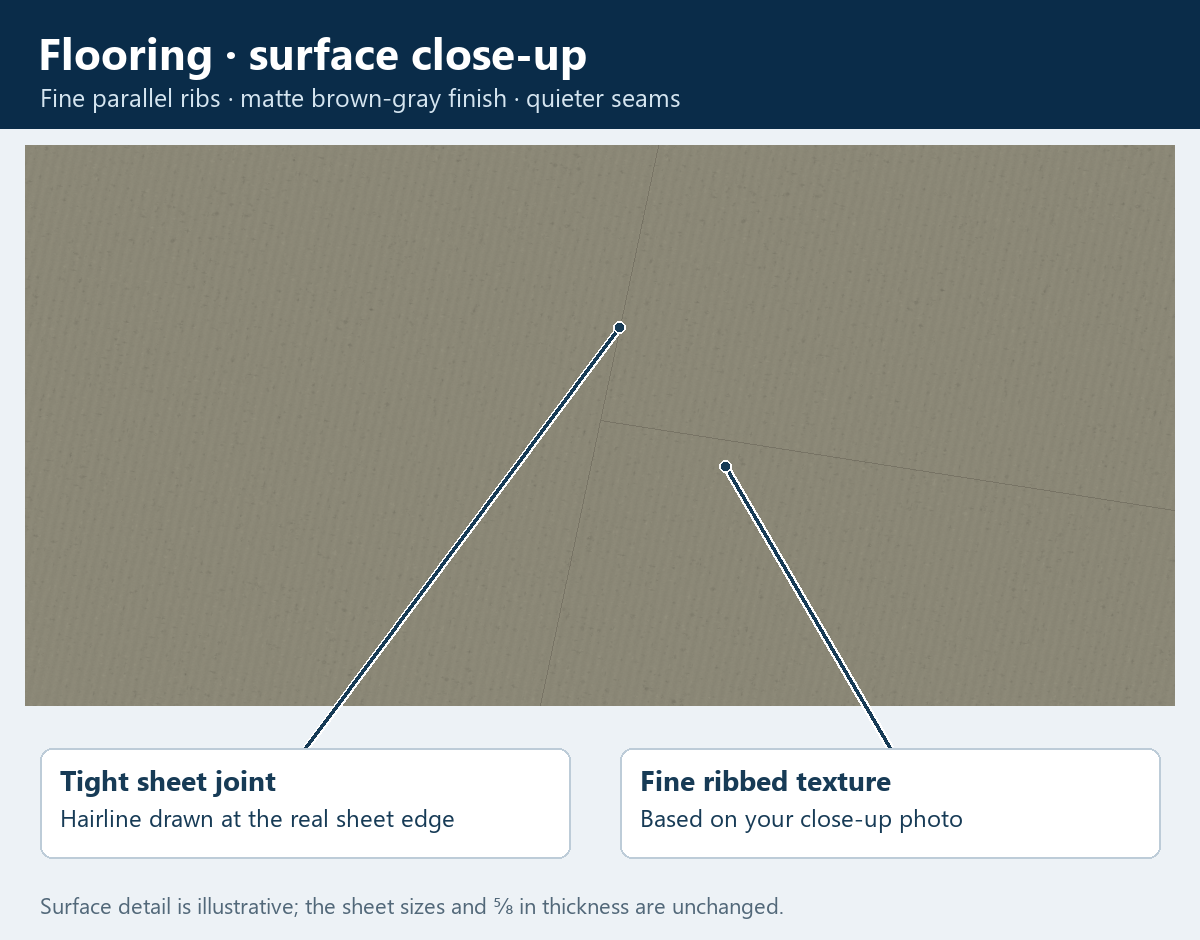
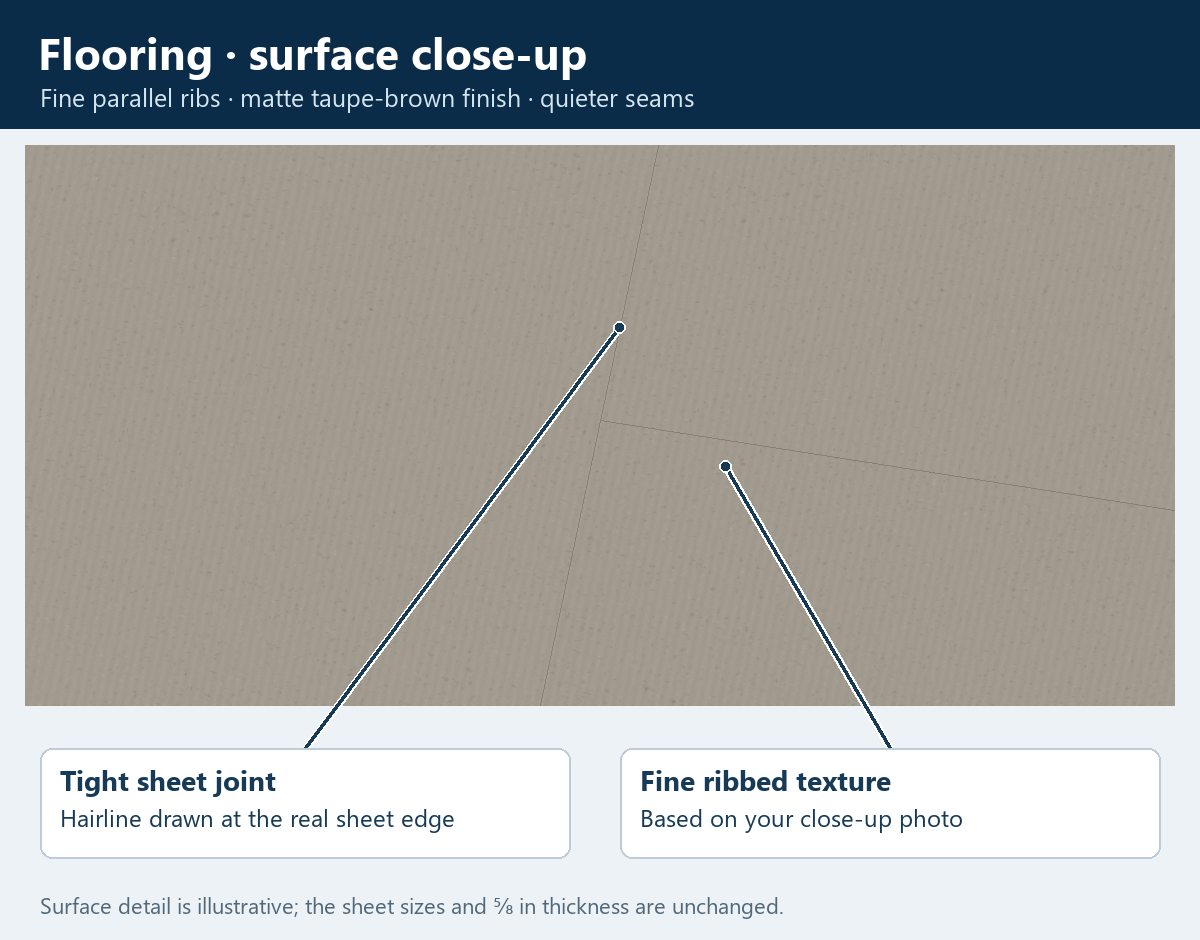
Match flooring color to the latest photo reference

Changed region(s): [[0.2467, 0.0926, 0.5858, 0.1234], [0.185, 0.6479, 0.2158, 0.6787]]

diff --git a/flooring.html b/flooring.html
@@ -30,17 +30,17 @@
     <p>The <strong>4 × 8-foot tongue-and-groove sheets</strong> are <strong>⅝ inch thick</strong> and rest on top of the floor joists. Their 8-foot length runs along the 16-foot building.</p>
     <p><strong>Staggered</strong> means the sheet end seams move over in the next row. The second row runs <strong>4 feet + 8 feet + 4 feet</strong>, as you confirmed. Across the 10-foot floor, two 4-foot rows leave <strong>2 feet</strong> for the last row, so those pieces are trimmed narrower.</p>
     <nav aria-label="Lesson views">
-      <a href="learn.html?step=deck&amp;v=flooring-texture-2">Rotate the 3D model</a>
+      <a href="learn.html?step=deck&amp;v=flooring-color-3">Rotate the 3D model</a>
       <a href="joists.html">See the framing underneath</a>
     </nav>
     <figure>
-      <a href="images/flooring.png"><img src="images/flooring.png" width="1200" height="940" alt="Angled model of seven flooring pieces with a muted brown-gray ribbed finish and faint seam lines. Overall dimensions are 10 by 16 feet, thickness is five eighths of an inch, and labels identify each row and the two-foot-wide trimmed last row."></a>
+      <a href="images/flooring.png"><img src="images/flooring.png" width="1200" height="940" alt="Angled model of seven flooring pieces with a muted taupe-brown ribbed finish and faint seam lines. Overall dimensions are 10 by 16 feet, thickness is five eighths of an inch, and labels identify each row and the two-foot-wide trimmed last row."></a>
       <figcaption>Tap the picture to open it full size. In the rotating model, uncheck Flooring to see the joists again.</figcaption>
     </figure>
     <h2>The flooring texture up close</h2>
     <figure>
-      <a href="images/flooring-closeup.png"><img src="images/flooring-closeup.png" width="1200" height="940" alt="Close-up of the model's matte brown-gray flooring with fine parallel ribs, tiny surface variations and faint joints between the sheets."></a>
-      <figcaption>The finish follows your close-up reference: fine ribbing and a quiet matte surface. Tap to inspect the texture full size.</figcaption>
+      <a href="images/flooring-closeup.png"><img src="images/flooring-closeup.png" width="1200" height="940" alt="Close-up of the model's matte taupe-brown flooring with fine parallel ribs, tiny surface variations and faint joints between the sheets."></a>
+      <figcaption>The finish follows your close-up for the fine ribbing and your later color photo for the warm taupe-brown tone. Tap to inspect the texture full size.</figcaption>
     </figure>
     <h2>How the seams stagger</h2>
     <figure>

diff --git a/ui/learn-flooring.js b/ui/learn-flooring.js
@@ -1,12 +1,14 @@
 /* An illustrative surface for the floor lesson, based on Alan's close-up:
-   matte brown-gray/olive, fine parallel ribs and tiny flecks. This does not
+   matte warm taupe-brown, fine parallel ribs and tiny flecks. This does not
    identify the product or specify its rib/profile dimensions. No photo asset,
    sheet geometry, normal or construction stage is changed. */
 import { hexRGB, srgbLin } from "../engine/math.js";
 import { mulberry32 } from "../engine/seeded.js";
 
 const PREFIX = "lessonFlooring-", VARIANTS = 4, EPSILON = 1e-7;
-const TINT = hexRGB("#8c8979").map(srgbLin);
+// Approximate display tint from Alan's later color-reference photo, allowing
+// for the neutral texture/lighting. This is not a manufacturer color code.
+const TINT = hexRGB("#a39c91").map(srgbLin);
 
 function sheetHash(value) {
   let hash = 2166136261;

diff --git a/tools/render-joist-picture.py b/tools/render-joist-picture.py
@@ -194,7 +194,7 @@ def render_flooring():
 
     im,project=scene([-1,b['y1Ft'],-4],1.65,yaw=.18,pitch=1.04)
     seam_lines(im,project);d=ImageDraw.Draw(im)
-    title(d,'Flooring · surface close-up','Fine parallel ribs · matte brown-gray finish · quieter seams')
+    title(d,'Flooring · surface close-up','Fine parallel ribs · matte taupe-brown finish · quieter seams')
     leader(d,project([-.78,b['y1Ft'],-3.95]),(620,748,540,110),'Fine ribbed texture',['Based on your close-up photo'])
     leader(d,project([-1,b['y1Ft'],-4.18]),(40,748,530,110),'Tight sheet joint',['Hairline drawn at the real sheet edge'])
     d.text((40,890),'Surface detail is illustrative; the sheet sizes and ⅝ in thickness are unchanged.',font=font(22),fill='#526879')

diff --git a/docs/examples/10x16-side-loft.md b/docs/examples/10x16-side-loft.md
@@ -88,10 +88,12 @@ renders of the [flooring](../../images/flooring.png) and
 [surface close-up](../../images/flooring-closeup.png). Refresh these when the
 flooring geometry or finish changes. They are model renders, not private photographs.
 
-On September 28, 2026 Alan supplied two private visual references for a
-matte, muted brown-gray/olive surface with fine, close, parallel ribbing and
-quieter hairline seams. The lesson's finish follows that appearance without
-changing dimensions or layout. Rib spacing is illustrative, not measured;
+On September 28, 2026 Alan supplied two private visual references for fine,
+close, parallel ribbing and quieter hairline seams. His later “Here the color”
+photo sets the preferred matte, warm taupe-brown tone. The lesson's `#a39c91`
+source tint approximates that photo under the current texture and lighting;
+it is not a manufacturer color code. The finish keeps its fine texture,
+dimensions and layout. Rib spacing is illustrative, not measured;
 the photographs do not confirm a product, material, manufacturer, treatment
 or fastening method. The original photographs remain private.
 

diff --git a/.claude/skills/part-floor-deck/SKILL.md b/.claude/skills/part-floor-deck/SKILL.md
@@ -45,8 +45,12 @@ or sheet treatment: treated wood was confirmed for the floor timbers,
 not these sheets. Any surface appearance is illustrative.
 
 On September 28, 2026 Alan supplied two private photographs as visual
-references: use a matte, muted brown-gray/olive surface with fine, close,
-parallel ribbing and quieter hairline seams. The photographs do not identify
+references for fine, close, parallel ribbing and quieter hairline seams.
+His later “Here the color” photo on the same date is the preferred color
+reference: a warmer, muted taupe-brown. The lesson's `#a39c91` source tint
+approximates that photo under the model's texture and lighting; it is not a
+measured product color or manufacturer code. Keep the existing fine texture
+and faint seams when correcting the color. The photographs do not identify
 a product, manufacturer, material, treatment or fastening method. Rib spacing
 was not measured; keep its rendered scale illustrative.
 
